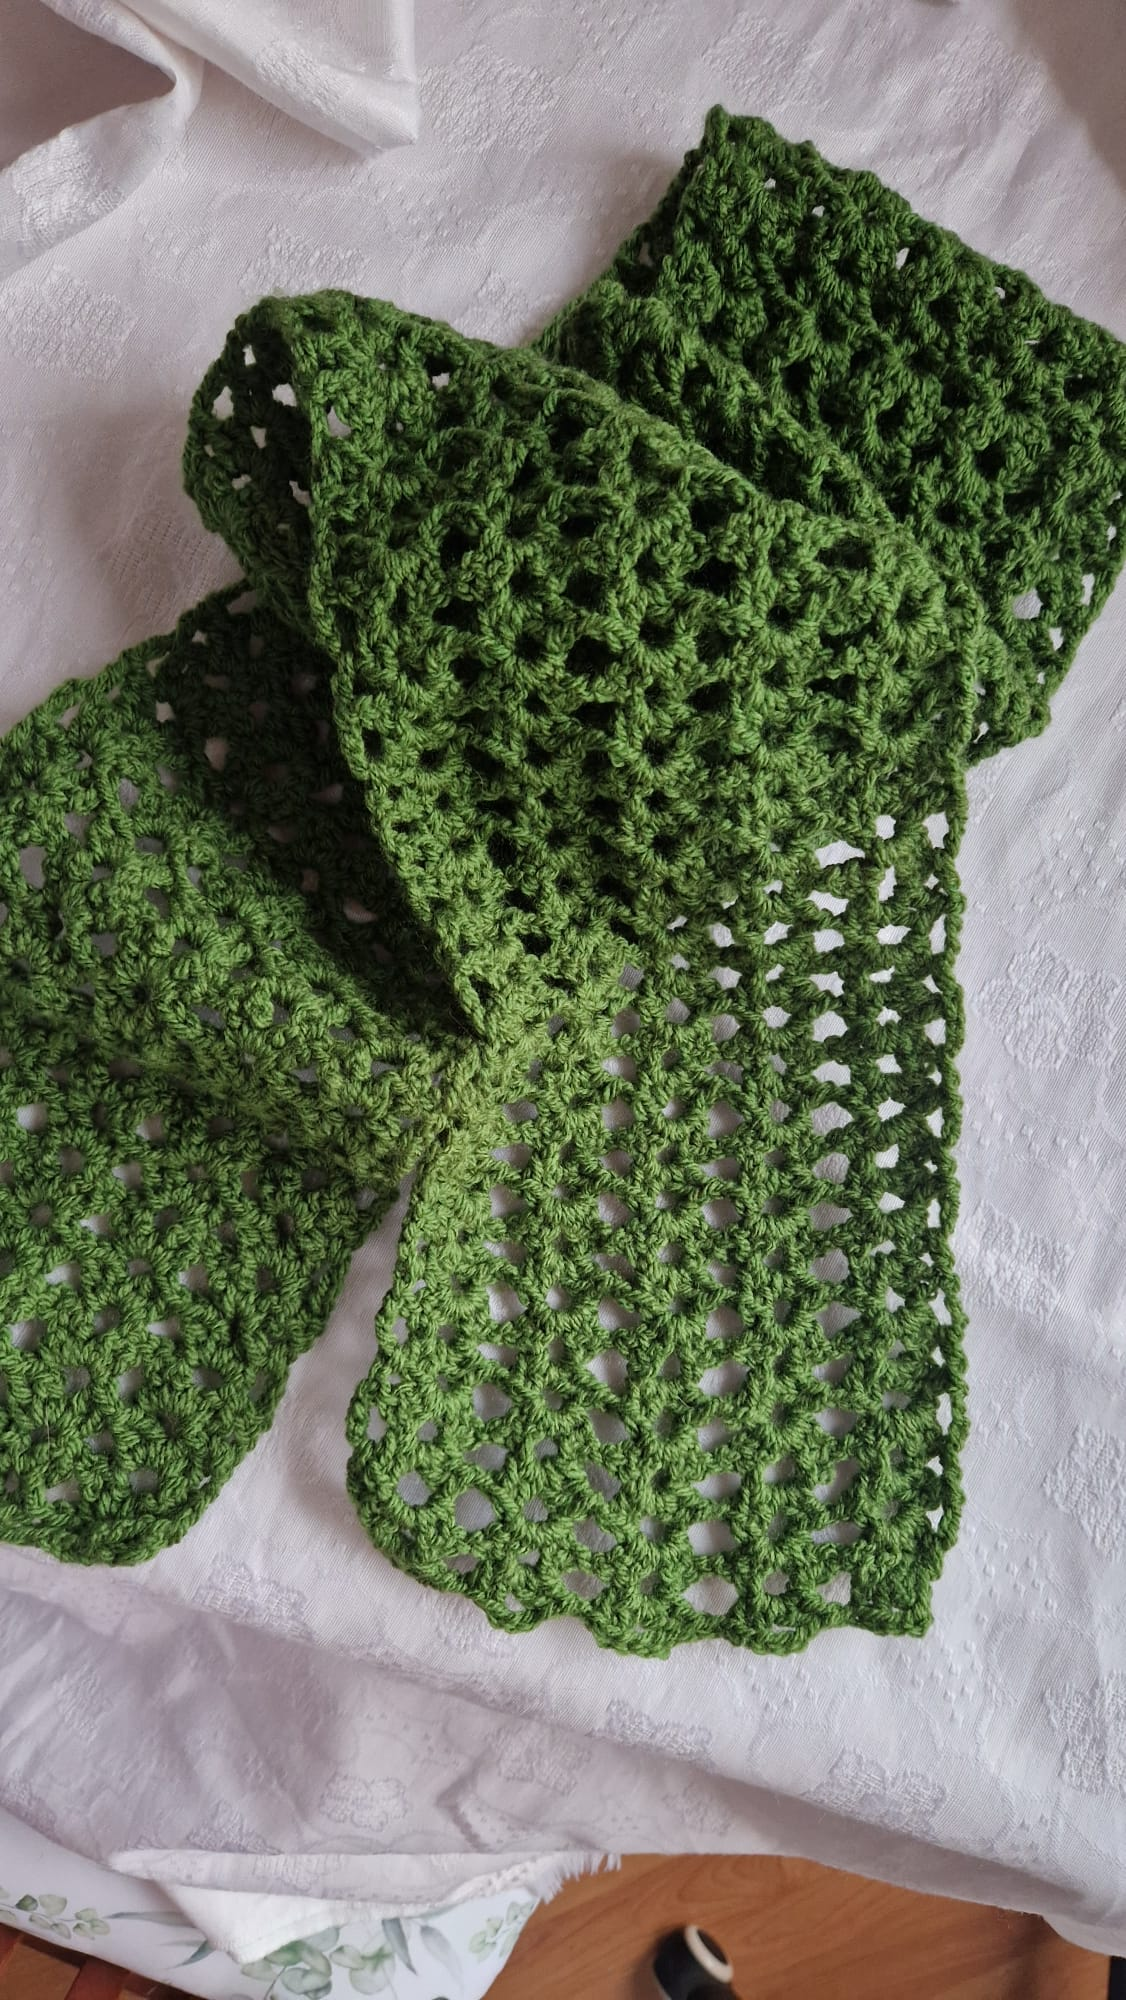
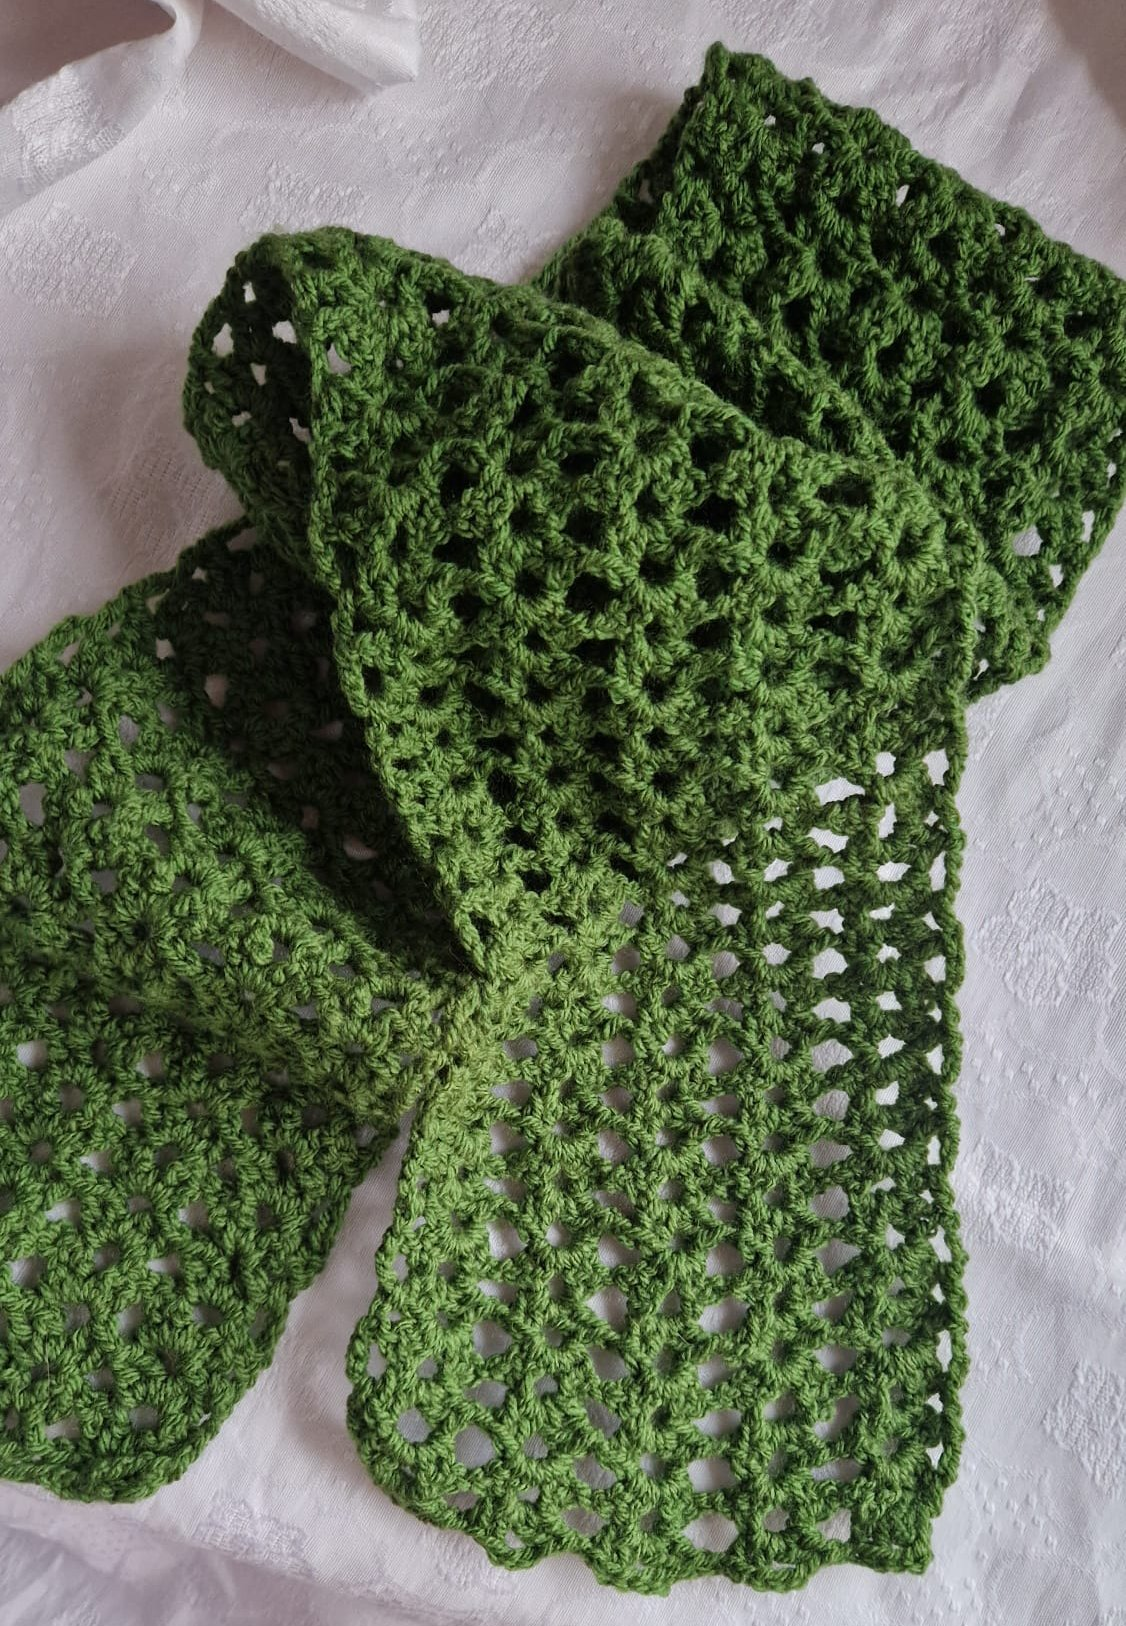
Add Etsy listing for PIECE-012, process inbox photos and stitches
- Updated PIECE-012 with Etsy sale_platform and sale_link
- Added 6 new photos to PIECE-006 (portrait/worn shots)
- Added 4 new photos to PIECE-012 (worn shots)
- Created 4 new stitches: Solomon's Knot, Lacy C2C, Mesh, Easy Lace
- Updated STITCH-009 and STITCH-016 with additional tutorial photos
- Added Piece ID display to frontend PieceCard component
- Updated session log in CLAUDE.md

diff --git a/frontend/src/components/cards/PieceCard.tsx b/frontend/src/components/cards/PieceCard.tsx
@@ -1,0 +1,98 @@
+import { Link } from 'react-router-dom'
+import { Clock, Euro } from 'lucide-react'
+import { Card, CardContent } from '@/components/ui/card'
+import { Badge } from '@/components/ui/badge'
+import { cn, formatPrice, formatHours } from '@/lib/utils'
+import type { Piece, WorkStatus, Destination } from '@/types'
+import { PIECE_TYPE_LABELS, WORK_STATUS_LABELS, DESTINATION_LABELS } from '@/types'
+import { PhotoThumbnail } from '@/components/gallery/PhotoThumbnail'
+
+interface PieceCardProps {
+  piece: Piece
+}
+
+function getStatusVariant(status: WorkStatus): 'default' | 'success' | 'warning' | 'info' {
+  switch (status) {
+    case 'finished':
+    case 'ready':
+      return 'success'
+    case 'in_progress':
+      return 'warning'
+    default:
+      return 'default'
+  }
+}
+
+function getDestinationVariant(destination: Destination): 'default' | 'success' | 'info' | 'secondary' {
+  switch (destination) {
+    case 'sold':
+    case 'gifted':
+      return 'success'
+    case 'for_sale':
+    case 'for_gift':
+      return 'info'
+    default:
+      return 'secondary'
+  }
+}
+
+export function PieceCard({ piece }: PieceCardProps) {
+  const firstPhoto = piece.photos[0]
+  const photoPath = firstPhoto ? `pieces/${piece.id}/${firstPhoto}` : null
+
+  return (
+    <Link to={`/pieces/${piece.id}`}>
+      <Card className="overflow-hidden transition-shadow hover:shadow-md">
+        {/* Photo */}
+        <div className="relative aspect-[4/3] bg-gray-100">
+          {photoPath ? (
+            <PhotoThumbnail path={photoPath} alt={piece.name} className="h-full w-full object-cover" />
+          ) : (
+            <div className="flex h-full items-center justify-center text-gray-400">
+              No photo
+            </div>
+          )}
+          {/* Type badge */}
+          <Badge
+            variant="secondary"
+            className="absolute left-2 top-2 bg-white/90"
+          >
+            {PIECE_TYPE_LABELS[piece.type]}
+          </Badge>
+        </div>
+
+        <CardContent className="p-4">
+          {/* Title and ID */}
+          <h3 className="font-medium text-gray-900 line-clamp-1">{piece.name}</h3>
+          <p className="text-xs text-gray-400 mt-0.5">{piece.id}</p>
+
+          {/* Status badges */}
+          <div className="mt-2 flex flex-wrap gap-1">
+            <Badge variant={getStatusVariant(piece.work_status)}>
+              {WORK_STATUS_LABELS[piece.work_status]}
+            </Badge>
+            <Badge variant={getDestinationVariant(piece.destination)}>
+              {DESTINATION_LABELS[piece.destination]}
+            </Badge>
+          </div>
+
+          {/* Meta info */}
+          <div className="mt-3 flex items-center gap-4 text-sm text-gray-500">
+            {piece.work_hours && (
+              <div className="flex items-center gap-1">
+                <Clock className="h-4 w-4" />
+                <span>{formatHours(piece.work_hours)}</span>
+              </div>
+            )}
+            {piece.price && (
+              <div className="flex items-center gap-1">
+                <Euro className="h-4 w-4" />
+                <span>{formatPrice(piece.price)}</span>
+              </div>
+            )}
+          </div>
+        </CardContent>
+      </Card>
+    </Link>
+  )
+}

diff --git a/CLAUDE.md b/CLAUDE.md
@@ -524,6 +524,30 @@ Instead of deleting records, mark them as `archived: true`. This preserves:
 
 **Next session:** Implement Phase 1 (stitches → styles → pieces → photo rename)
 
+### 2026-01-23: Etsy Shop Setup & Inbox Processing
+- Created Etsy profile (g3i48ryqg11khv71) and shop (Laguh)
+- Listed PIECE-012 (Shell Stitch Scarf - Biscotti) on Etsy
+- Updated PIECE-012 with sale_platform: "Etsy" and sale_link
+- Created catchy title/description for PIECE-006 (V-Stitch Scarf - Forest Green) for future listing
+- Updated frontend PieceCard.tsx to display Piece ID
+- Updated parent CLAUDE.md with default working directory instruction
+
+**Inbox Processing:**
+- Processed 10 piece photos from inbox (no duplicates):
+  - PIECE-006: Added 6 new portrait/worn photos
+  - PIECE-012: Added 4 new worn photos
+- Processed 12 stitch screenshots from inbox:
+  - Updated STITCH-009 (Bobble Stitch): +1 photo
+  - Updated STITCH-016 (Flower Lace Triangle): +3 photos
+  - Created STITCH-017 (Solomon's Knot)
+  - Created STITCH-018 (Lacy Corner to Corner)
+  - Created STITCH-019 (Mesh Stitch)
+  - Created STITCH-020 (Easy Lace Stitch)
+
+**Clarification on duplicate detection:**
+- Only flag exact duplicate files for deletion
+- Keep different frames/angles from same tutorial (valuable for learning)
+
 ---
 
 ## Inbox Processing Instructions
